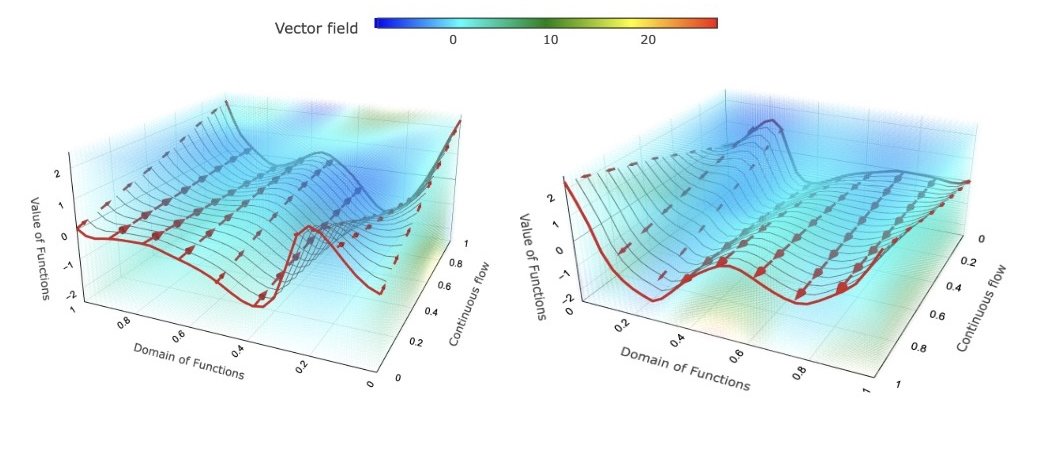
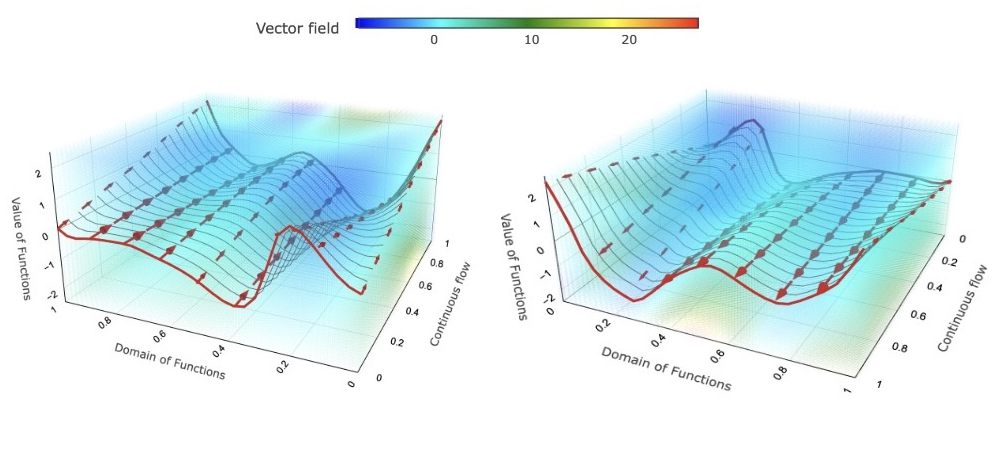
up

diff --git a/_includes/publications.md b/_includes/publications.md
@@ -93,7 +93,7 @@
 <div class="pub-row">
    <div class="col-sm-3 abbr" style="position: relative;padding-right: 15px;padding-left: 15px;max-width: 150px;max-height: 150px">
     <abbr class="badge">  Preprint </abbr>
-    <img src="assets/img/UFPCA.jpg?v=20261017-1" style="width: auto; height: auto">
+    <img src="assets/img/UFPCA.jpg?v=20261017-2" style="width: auto; height: auto">
   </div>
   <div class="col-sm-9" style="position: relative;padding-right: 15px;padding-left: 20px;">
     <div class="title"><a href="https://arxiv.org/abs/2408.02343">Dependence-Adaptive Modelling for Functional Time Series</a></div>
@@ -136,7 +136,7 @@
   <div class="pub-row">
     <div class="col-sm-3 abbr" style="position: relative;padding-right: 15px;padding-left: 15px;max-width: 150px;max-height: 150px">
       <abbr class="badge">AOS</abbr>
-      <img src="assets/img/SMO.jpg?v=20261017-1" style="width: auto; height: auto">
+      <img src="assets/img/SMO.jpg?v=20261017-2" style="width: auto; height: auto">
     </div>
     <div class="col-sm-9" style="position: relative;padding-right: 15px;padding-left: 20px;">
       <div class="title">
